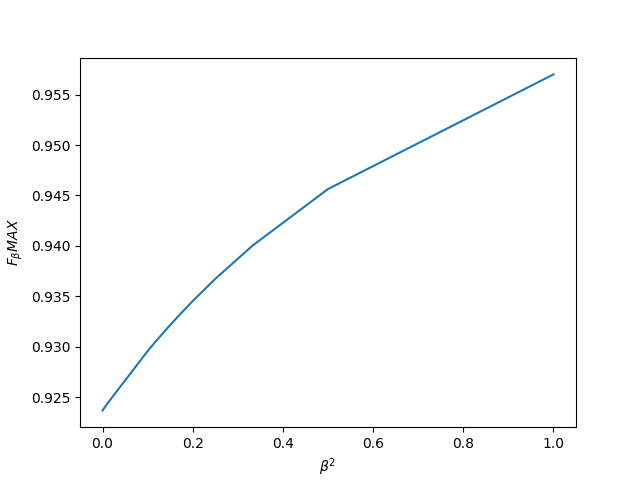
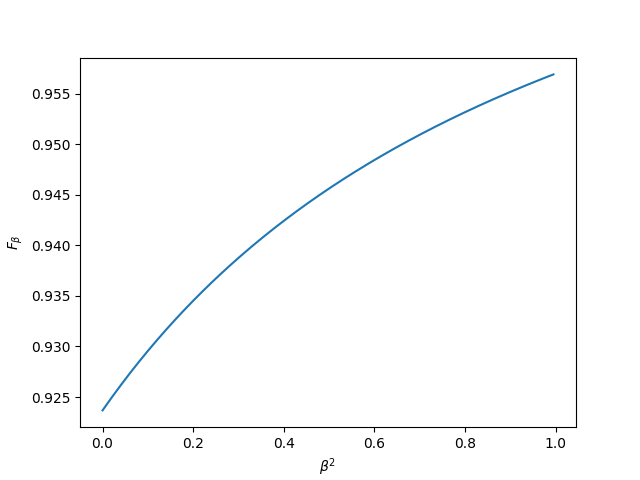
F_beta and AUC

diff --git a/Classification/src/fbeta2.py b/Classification/src/fbeta2.py
@@ -1,0 +1,94 @@
+import os
+import numpy as np
+import math
+from matplotlib import pyplot as plt
+
+
+def fbeta(network_model, batch_size, n_epochs, optimizer, data_set='heridal', train_prop=6, val_prop=2, test_prop=2):
+    
+    output = os.path.join('..', 'outputs', data_set, 'split_'+str(train_prop)+'_'+str(val_prop)+'_'+str(test_prop))
+    model_name = network_model + '_' + 'b' +  str(batch_size)  + '_' + 'e' + str(n_epochs) + '_' + optimizer
+    output = os.path.join(output, model_name)
+
+    pred_file = os.path.join(output, "pred"+model_name+".txt")
+    file = open(pred_file, 'r')
+    file_string = file.read()
+    file_list = file_string.replace('\n', '').replace(' ', '').replace('[', '--').replace(']', '--').split('--')
+    precision_array = np.array([float(i) for i in file_list[2].split(',')])
+    recall_array = np.array([float(i) for i in file_list[4].split(',')])
+
+    precision = precision_array[precision_array.shape[0]//2]
+    recall = recall_array[recall_array.shape[0]//2]
+
+    f_beta_list =[]
+    beta2_array = np.arange(0, 200, 1) / 200
+    for beta2 in beta2_array:    
+        f_beta = (beta2 + 1)*precision*recall/(beta2*precision + recall)
+        f_beta_list.append(f_beta)
+
+    area = 0.0
+    for count in range(0, 199):
+       area = f_beta_list[count] + f_beta_list[count+1] 
+    area = area / (400)
+
+    label = 'AUC = {:.3f}'
+    plt.figure()
+    plt.plot(beta2_array, np.asarray(f_beta_list), label=label.format(area))
+    plt.xlabel('$\u03B2 ^{2}$')
+    plt.ylabel('$F_\u03B2$')                
+    plt.savefig(os.path.join(output, 'f_beta_med_beta2_f_beta_' + model_name + '.png'))
+    plt.close
+
+    ###################################################################################
+
+    for k in range(4):
+        pred_file = os.path.join(output, "test"+str((k+1)/2)+"_pred"+model_name+".txt")
+        file = open(pred_file, 'r')
+        file_string = file.read()
+        file_list = file_string.replace('\n', '').replace(' ', '').replace('[', '--').replace(']', '--').split('--')
+        precision_array = np.array([float(i) for i in file_list[2].split(',')])
+        recall_array = np.array([float(i) for i in file_list[4].split(',')])
+
+        precision = precision_array[precision_array.shape[0]//2]
+        recall = recall_array[recall_array.shape[0]//2]
+
+        f_beta_list =[]
+        beta2_array = np.arange(0, 200, 1) / 200
+        for beta2 in beta2_array:    
+            f_beta = (beta2 + 1)*precision*recall/(beta2*precision + recall)
+            f_beta_list.append(f_beta)
+
+        area = 0.0
+        for count in range(0, 199):
+           area = f_beta_list[count] + f_beta_list[count+1] 
+           area = area / (400)
+
+        label = 'AUC = {:.3f}'
+        plt.figure()
+        plt.plot(beta2_array, np.asarray(f_beta_list), label=label.format(area))
+        plt.xlabel('$\u03B2 ^{2}$')
+        plt.ylabel('$F_\u03B2$')                
+        plt.savefig(os.path.join(output, "f_beta_med_test"+str((k+1)/2)+'beta2_f_beta_' + model_name + '.png'))
+        plt.close
+
+    return
+
+# fbeta('chollet', 16, 70, 'rmsprop')
+# fbeta('chollet', 32, 70, 'rmsprop')
+fbeta('chollet', 128, 70, 'rmsprop')
+# fbeta('chollet', 256, 70, 'rmsprop')
+
+# fbeta('chollet', 16, 70, 'SGD')
+# fbeta('chollet', 32, 70, 'SGD')
+# fbeta('chollet', 128, 70, 'SGD')
+# fbeta('chollet', 256, 70, 'SGD')
+
+# fbeta('vasic_papic', 16, 70, 'rmsprop')
+# fbeta('vasic_papic', 32, 70, 'rmsprop')
+# fbeta('vasic_papic', 128, 70, 'rmsprop')
+fbeta('vasic_papic', 256, 70, 'rmsprop')
+
+# fbeta('vasic_papic', 16, 70, 'SGD')
+# fbeta('vasic_papic', 32, 70, 'SGD')
+# fbeta('vasic_papic', 128, 70, 'SGD')
+# fbeta('vasic_papic', 256, 70, 'SGD')
